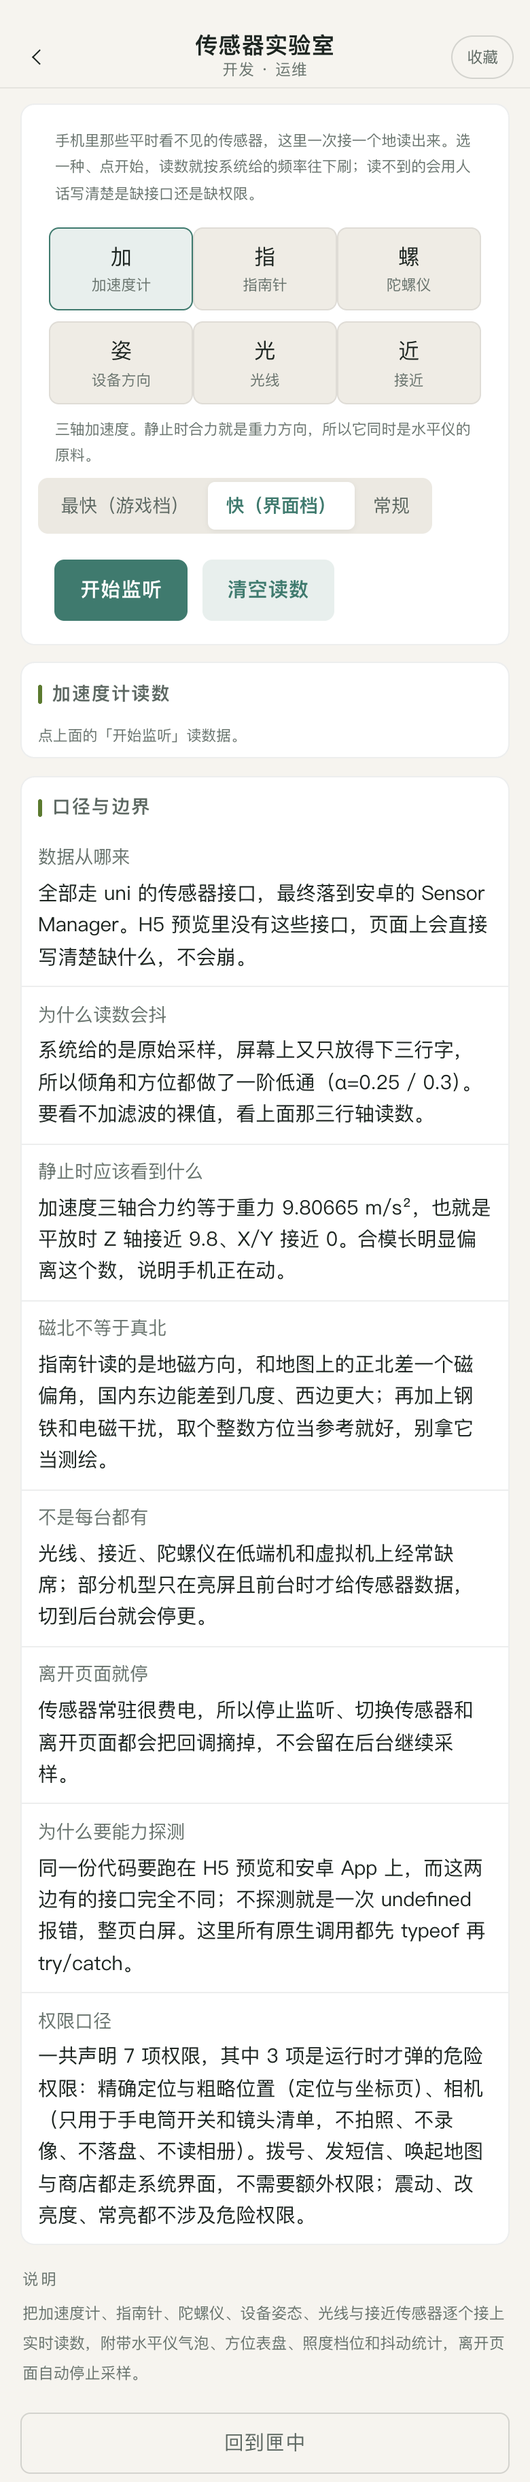
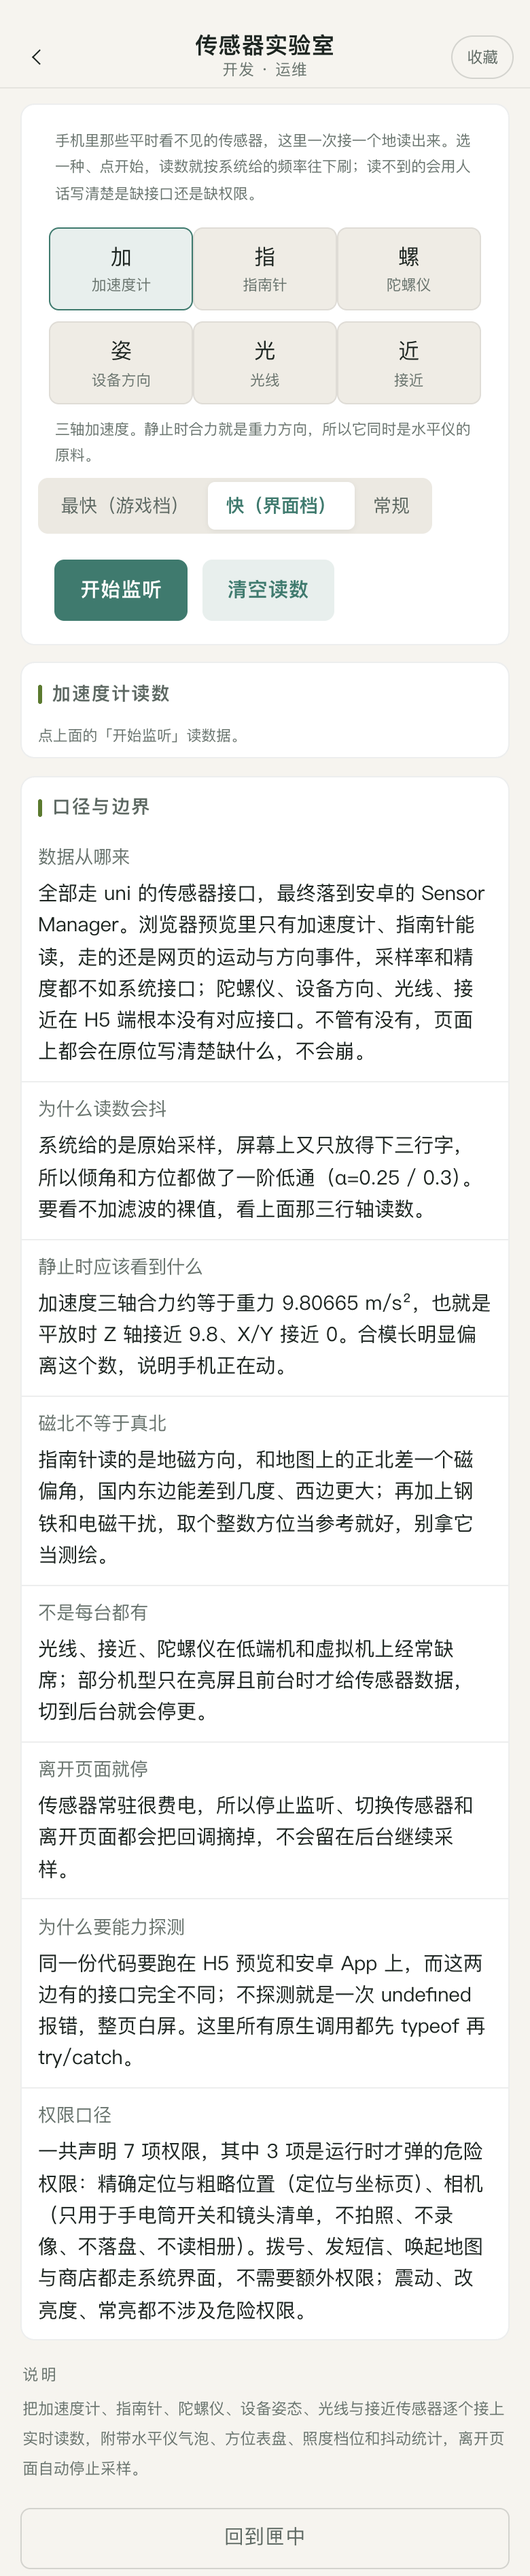
docs: 传感器页的 H5 口径改为按分项说实话——不再写死「H5 预览里没有这些接口」
上一笔补全字面量表后，页面一边说「H5 没有接口」一边已经在等加速度计的第一帧数据，自相矛盾。
native.js 开一个只读判据 h5Has(key)（判据就是那张与 uni-h5 对过账的表），ToolSensor.vue 的
「数据从哪来」文案改由它推出：预览里只有加速度计、指南针能读（走网页的运动与方向事件，
采样率与精度不如系统接口），陀螺仪、设备方向、光线、接近在 H5 端确实没有对应接口。
以后加减传感器 kinds，这句会跟着表变，不会再手写腐烂。

README 的截图说明与「已知边界」同步改写：震动/常亮/加计/指南针在浏览器预览里是真通的，
只能上机验的收窄为闪光灯、镜头清单、亮度、光线与接近与唤起链路。
native.test.mjs 加守卫：h5Has 的正反用例，以及传感器页必须用 h5Has、不许再出现那句写死的话。

native 自测 350 → 359 条全绿，npm test exit=0，build:h5 exit=0，截图 28/28 无运行时错误；
只提交真正变化的 40-传感器实验室.png，其余 8 张是同一份代码重跑仍抖字节的渲染噪声，已退回。

Changed region(s): [[0.0308, 0.0, 0.9538, 0.9918], [0.8923, 0.0, 0.9538, 0.031], [0.3692, 0.2789, 0.4308, 0.3099]]

diff --git a/src/tools/components/ToolSensor.vue b/src/tools/components/ToolSensor.vue
@@ -94,13 +94,21 @@ import {
   SENSOR_KINDS, SENSOR_RATES, frameRows, primaryValue, pushFrame, seriesStats,
   magnitude, tiltFromAccel, isLevel, bubble, smooth, smoothHeading, compassView, lightGrade, proximityState, GRAVITY,
 } from '@/utils/sensor'
-import { probe, hasApi, uniStart, uniStop, uniOn, uniOff, missText, NATIVE_NOTES } from '@/utils/native'
+import { probe, hasApi, h5Has, uniStart, uniStop, uniOn, uniOff, missText, NATIVE_NOTES } from '@/utils/native'
 
 const TINT = '#5B7A2F'
 const HIST = 48
 
+/** 浏览器预览里哪些传感器真能读：口径取自 native 那张与 uni-h5 对过账的表，不手写死 */
+const H5_YES = SENSOR_KINDS.filter((k) => h5Has(k.start) && h5Has(k.api)).map((k) => k.name)
+const H5_NO = SENSOR_KINDS.filter((k) => !(h5Has(k.start) && h5Has(k.api))).map((k) => k.name)
+const H5_LINE = H5_YES.length
+  ? '浏览器预览里只有' + H5_YES.join('、') + '能读，走的还是网页的运动与方向事件，采样率和精度都不如系统接口；' +
+    H5_NO.join('、') + '在 H5 端根本没有对应接口。'
+  : '浏览器预览里这几样传感器接口都没有。'
+
 const NOTES = [
-  { t: '数据从哪来', d: '全部走 uni 的传感器接口，最终落到安卓的 SensorManager。H5 预览里没有这些接口，页面上会直接写清楚缺什么，不会崩。' },
+  { t: '数据从哪来', d: '全部走 uni 的传感器接口，最终落到安卓的 SensorManager。' + H5_LINE + '不管有没有，页面上都会在原位写清楚缺什么，不会崩。' },
   { t: '为什么读数会抖', d: '系统给的是原始采样，屏幕上又只放得下三行字，所以倾角和方位都做了一阶低通（α=0.25 / 0.3）。要看不加滤波的裸值，看上面那三行轴读数。' },
   { t: '静止时应该看到什么', d: '加速度三轴合力约等于重力 ' + GRAVITY + ' m/s²，也就是平放时 Z 轴接近 9.8、X/Y 接近 0。合模长明显偏离这个数，说明手机正在动。' },
   { t: '磁北不等于真北', d: '指南针读的是地磁方向，和地图上的正北差一个磁偏角，国内东边能差到几度、西边更大；再加上钢铁和电磁干扰，取个整数方位当参考就好，别拿它当测绘。' },

diff --git a/src/utils/native.js b/src/utils/native.js
@@ -116,6 +116,15 @@ function apiOf(key) {
     return null
   }
 }
+/**
+ * 这个接口在 H5 端到底有没有：判据就是上面那张与 uni-h5 对过账的表。
+ * 与 hasApi 的差别在于 hasApi 问的是「此刻这台设备能不能调到」，这里问的是
+ * 「浏览器预览这条路本身存不存在」——给文案用，免得把「我们没用反射拿到」说成「H5 没有」。
+ */
+export function h5Has(key) {
+  return !!UNI_LITERAL[key]
+}
+
 function plusOf() {
   try {
     return typeof plus !== 'undefined' && plus ? plus : null
